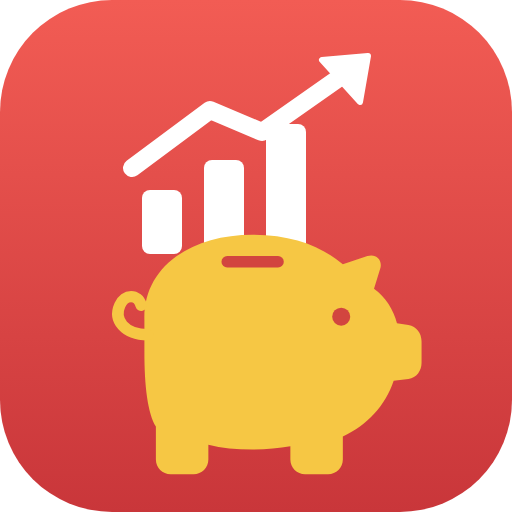
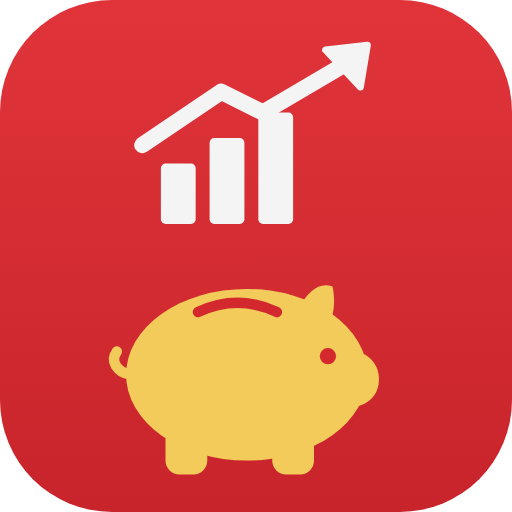
아이콘: 보내 주신 시안에 맞춰 다시 그림
Claude-Session: https://claude.ai/code/session_01DTTZzxS6CFyfHm253qb7YQ

diff --git a/index.html b/index.html
@@ -13,8 +13,8 @@
 <meta name="apple-mobile-web-app-status-bar-style" content="default">
 <meta name="apple-mobile-web-app-title" content="Dalton House">
 <link rel="manifest" href="manifest.webmanifest">
-<link rel="icon" type="image/png" sizes="192x192" href="icons/icon-192.png?v=5">
-<link rel="apple-touch-icon" href="icons/apple-touch-icon.png?v=5">
+<link rel="icon" type="image/png" sizes="192x192" href="icons/icon-192.png?v=6">
+<link rel="apple-touch-icon" href="icons/apple-touch-icon.png?v=6">
 <link rel="stylesheet" href="https://cdn.jsdelivr.net/gh/orioncactus/pretendard@v1.3.9/dist/web/variable/pretendardvariable-dynamic-subset.min.css">
 <link rel="stylesheet" href="app.css?v=108">
 </head>
@@ -22,7 +22,7 @@
 
 <div id="login" class="login" hidden>
   <form id="loginForm" class="login-card" autocomplete="on">
-    <img src="icons/icon-192.png?v=5" alt="" class="login-icon" width="64" height="64">
+    <img src="icons/icon-192.png?v=6" alt="" class="login-icon" width="64" height="64">
     <h1>Dalton House</h1>
     <p class="login-sub">우리 집 투자 현황</p>
     <div class="field">
@@ -44,7 +44,7 @@
 <div id="app" class="app" hidden>
   <header class="topbar">
     <div class="brand">
-      <img src="icons/icon-192.png?v=5" alt="" width="30" height="30">
+      <img src="icons/icon-192.png?v=6" alt="" width="30" height="30">
       <div class="brand-text">
         <div class="brand-name">Dalton House</div>
         <span id="updated" class="updated"></span>

diff --git a/sw.js b/sw.js
@@ -1,5 +1,5 @@
 // 앱 화면 파일만 저장 (자산 데이터는 저장하지 않음)
-const CACHE = 'dalton-house-v152';
+const CACHE = 'dalton-house-v153';
 const SHELL = ['./', 'index.html', 'app.css?v=51', 'app.js?v=57', 'hh.js?v=4', 'config.js?v=1', 'manifest.webmanifest',
   'icons/icon-192.png', 'icons/icon-512.png', 'icons/apple-touch-icon.png'];
 
